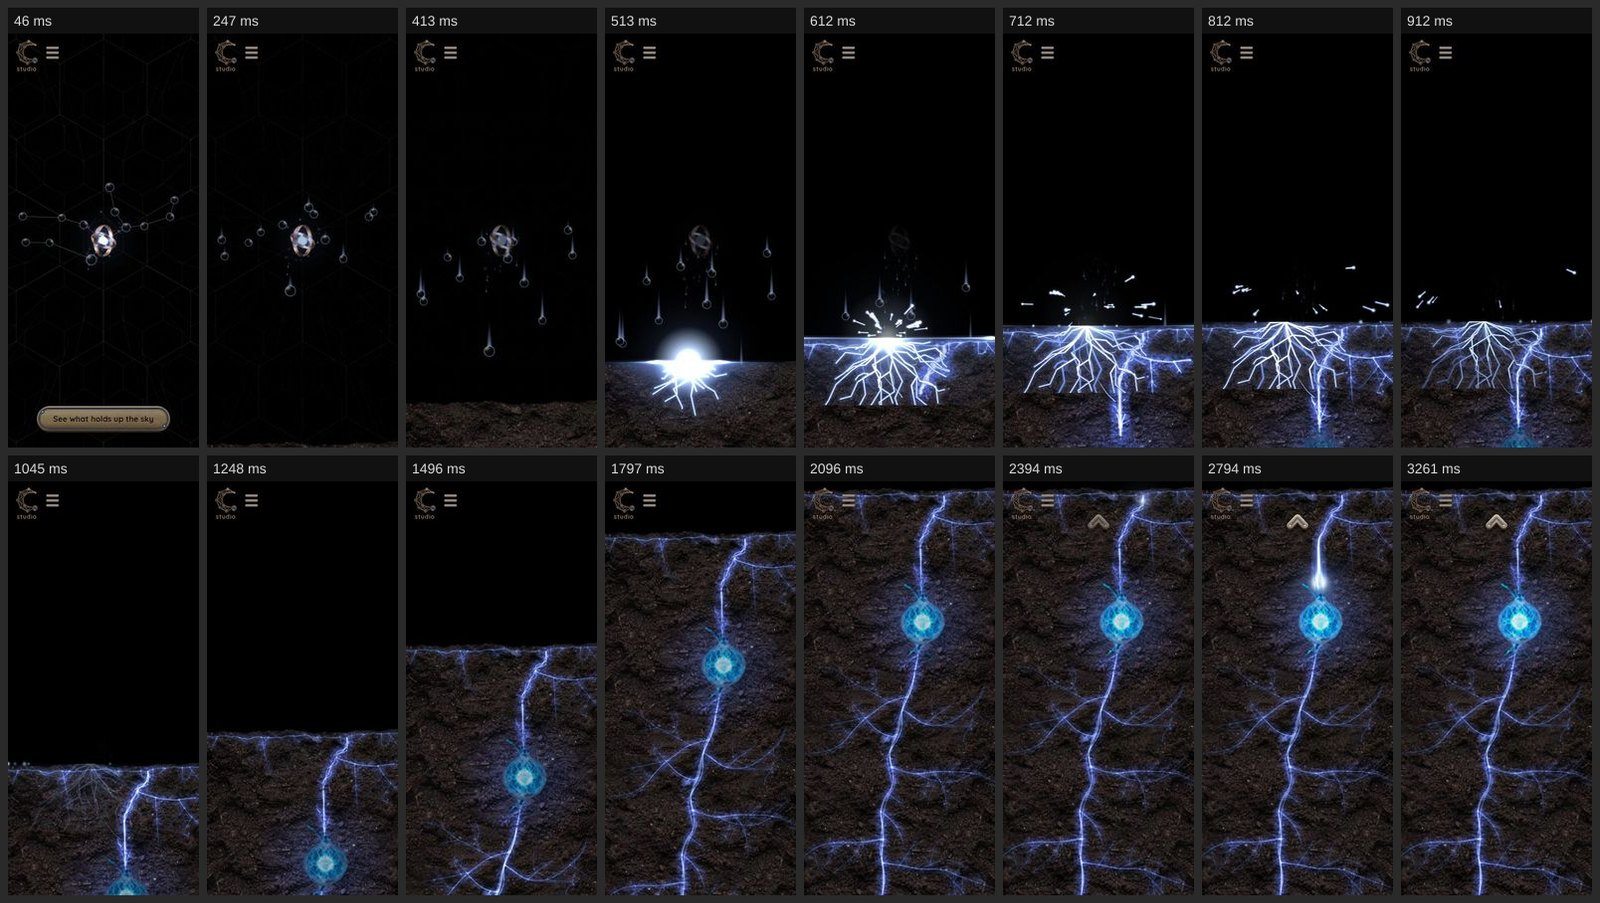
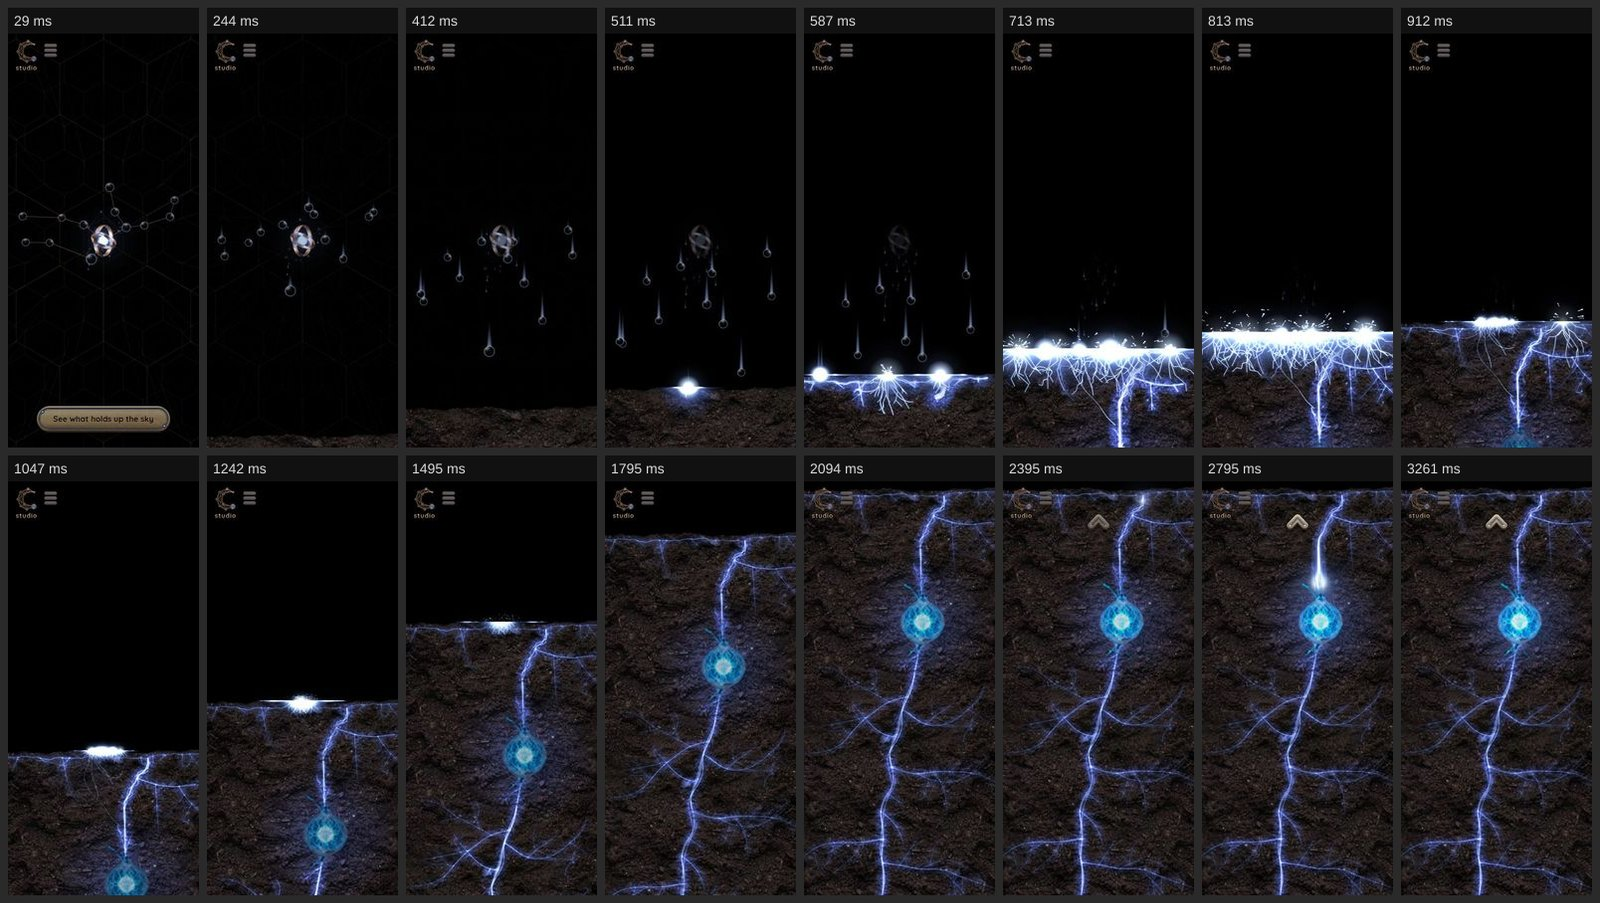
The fall: every star strikes the ground with its own burst
What was wrong: when the stars fell only the first one burst; the others
passed behind the soil's edge with nothing. The owner asked for all of them.

What now holds: the sky tells the director of every star as it crosses the
ground line (one optional callback more in the fall's options, onLand), and
each gets a burst where it lands: the same picture for all, smaller than the
one great burst there was, smaller again for the figures farther away, at
most eighteen at once. The first still sets off the growth, once. The ground
rises and the view goes down in one motion, so there is no half second of
black. Looked at as strips at both sizes; 34 checks of the fall pass.

Also: the transitions checks no longer wait for Cloudflare's script on
/contact (they died on it once).

Claude-Session: https://claude.ai/code/session_012W2mjAvaNe8UQ2tuJLbV2x

diff --git a/src/experience/director.ts b/src/experience/director.ts
@@ -41,7 +41,6 @@ import {
 } from './contracts.ts';
 import {
 	easeIn,
-	easeInOut,
 	easeOut,
 	fadeThrough,
 	lerp,
@@ -75,10 +74,14 @@ const SKY_WAIT_MS = 6000;
 const LOADER_WAIT_MS = 10_000;
 /** D1: the soil rises this far into the frame, as a share of the screen, to meet the stars. */
 const FALL_MEET = 0.32;
-/** D1: how long that rise takes. The first star strikes about half way through it. */
+/** D1: how long that rise takes. The first star strikes about half way through it, the last as it ends. */
 const FALL_RISE_MS = 900;
 /** D2: then the view follows the growth down to the top of the ground. */
 const FALL_FOLLOW_MS = 1200;
+/** D2: the ground line is held this far down the effects canvas (a share of the screen) while bursts play. */
+const FALL_BURST_LINE = 0.45;
+/** D2: how long a burst lasts, with a frame to spare (the effects layer's own figure is 760 ms). */
+const FALL_BURST_MS = 800;
 /** After the fall the growth is given this long to pass the first node before focus moves. */
 const GROWTH_WAIT_MS = 1500;
 /** G2: the whole launch back to the sky. */
@@ -100,8 +103,20 @@ const VEIL_Z_OVER_ALL = '55';
 
 const SCENES: readonly string[] = ['loading', 'sky', 'fall', 'roots', 'warp'];
 
-/** Slow, fast, slow, and quicker off the mark than motion.ts's: the view must not seem to stop. */
-const glide = (k: number): number => (k < 0.5 ? 2 * k * k : 1 - 2 * (1 - k) * (1 - k));
+/** A curve from 0 to 1 that leaves at slope `a` and arrives at slope `b` (a cubic Hermite). */
+const hermite =
+	(a: number, b: number) =>
+	(k: number): number =>
+		3 * k * k - 2 * k * k * k + a * (k * k * k - 2 * k * k + k) + b * (k * k * k - k * k);
+/** D2: the follow leaves at this slope, so the ground is already moving when it begins. */
+const FOLLOW_SLOPE = 0.5;
+/** D1: the rise starts from rest and arrives at the speed the follow leaves at. */
+const riseOn = hermite(
+	0,
+	(FOLLOW_SLOPE * (1 - FALL_MEET) * FALL_RISE_MS) / (FALL_FOLLOW_MS * FALL_MEET),
+);
+/** D2: the follow carries that speed on and comes to rest on the top of the ground. */
+const followOn = hermite(FOLLOW_SLOPE, 0);
 
 const wait = (ms: number): Promise<void> => new Promise((resolve) => setTimeout(resolve, ms));
 
@@ -391,14 +406,36 @@ export function createDirector(): StageDirector {
 			return window.innerHeight;
 		};
 		const burst = document.getElementById('fx-canvas');
-		/** scrollTop when the star struck, or -1. */
-		let struck = -1;
+		/** The first star has struck: the growth is set off once. */
+		let struck = false;
 		let grown: Promise<void> | undefined;
+		// The effects canvas is fixed and the ground is moving, so from the first
+		// strike the canvas is carried with the ground: the ground line is held
+		// at one height of the canvas (`line`), with room over it for the sparks
+		// and room under it for the light driven into the soil, wherever the
+		// ground is on the screen by then. Every burst is drawn at that height.
+		let line = -1;
+		let lastStrike = 0;
+		const carry = (): void => {
+			if (burst && line >= 0) burst.style.transform = `translateY(${surface() - line}px)`;
+		};
+		/** A star meets the ground: its burst, where it lands. All alike. */
+		const strike = (x: number, size: number): void => {
+			if (line < 0) line = Math.min(surface(), window.innerHeight * FALL_BURST_LINE);
+			carry();
+			lastStrike = performance.now();
+			tell('fx', (fx) => fx.impact(x, line, size));
+		};
+		let landed = 0;
+		const onLand = (x: number, size: number): void => {
+			if (scene !== 'fall') return;
+			landed++;
+			strike(x, size);
+		};
 		const onImpact = (x: number): void => {
-			if (scene !== 'fall' || struck >= 0) return;
-			struck = window.scrollY;
-			const y = surface();
-			tell('fx', (fx) => fx.impact(x, y));
+			if (scene !== 'fall' || struck) return;
+			struck = true;
+			if (landed === 0) strike(x, 1); // a sky that does not say where each star lands
 			tell('roots', (ground) => {
 				grown = ground.growFrom(x);
 			});
@@ -406,23 +443,32 @@ export function createDirector(): StageDirector {
 		const scrollTo = (share: number): void => {
 			if (scene !== 'fall') return; // the sky was lost meanwhile: the page is the Roots already
 			jump(spacer.offsetHeight * share);
-			if (burst && struck >= 0) burst.style.transform = `translateY(${struck - window.scrollY}px)`;
+			carry();
 		};
 
 		try {
 			// Not awaited: it is over when the last star is behind the soil, and
 			// restore() ends it in any case.
-			Promise.resolve(sky.fall({ groundY: surface, onImpact })).catch((err) =>
+			Promise.resolve(sky.fall({ groundY: surface, onImpact, onLand })).catch((err) =>
 				console.error('[cellestial] the sky threw', err),
 			);
 		} catch (err) {
 			console.error('[cellestial] the sky threw', err);
 		}
 		try {
-			await tween(FALL_RISE_MS, (k) => scrollTo(FALL_MEET * k), easeInOut);
-			await tween(FALL_FOLLOW_MS, (k) => scrollTo(lerp(FALL_MEET, 1, k)), glide);
+			// One motion, not two: the ground is still rising when the last stars
+			// land on it and goes straight on up the screen, never standing still
+			// (the two curves meet at the same speed).
+			await tween(FALL_RISE_MS, (k) => scrollTo(FALL_MEET * k), riseOn);
+			await tween(FALL_FOLLOW_MS, (k) => scrollTo(lerp(FALL_MEET, 1, k)), followOn);
 		} finally {
-			if (burst) burst.style.transform = '';
+			// The last bursts are still dying on the ground they struck: the canvas
+			// stays with it (the visitor can scroll by now) until they are over.
+			const stop = onFrame(() => {
+				if (line >= 0 && performance.now() - lastStrike < FALL_BURST_MS) return carry();
+				stop();
+				if (burst) burst.style.transform = '';
+			});
 		}
 		if (scene !== 'fall') return;
 

diff --git a/src/experience/sky/index.ts b/src/experience/sky/index.ts
@@ -291,7 +291,10 @@ export const mount: MountSky = (ctx) => {
 		gravity: number;
 		groundY: () => number;
 		onImpact: (x: number) => void;
+		onLand: ((x: number, size: number) => void) | undefined;
 		impacted: boolean;
+		/** The stars that have crossed the ground line: layer * 1000 + index in its figure. */
+		landed: Set<number>;
 		/** When the last of it began to fade, or -1. */
 		ending: number;
 		resolve: () => void;
@@ -775,8 +778,9 @@ export const mount: MountSky = (ctx) => {
 			if (!plan || !fit) continue;
 			const scale = layout.focal / depth;
 			const seen = nearFade(depth) * farFade(depth);
-			for (const star of plan.stars) {
-				if (!star.slot) continue;
+			for (let i = 0; i < plan.stars.length; i++) {
+				const star = plan.stars[i];
+				if (!star?.slot) continue;
 				const trueR = fit.starR * star.scale * scale;
 				if (seen * Math.min(1, trueR / LOOK.starMinPx) < FAINT) continue;
 				const r = Math.max(trueR, LOOK.starMinPx);
@@ -785,9 +789,23 @@ export const mount: MountSky = (ctx) => {
 				const t = Math.max(0, elapsed - star.seed * FALL.stagger);
 				const y = layout.h / 2 - (star.y - 0.5 * f.gravity * t * t - cam.y) * scale;
 				const trail = Math.min(f.gravity * t * FALL.trail * quality.trail * scale, 16 * r);
-				if (y + r >= ground && y + r - ground > hitOver) {
-					hitOver = y + r - ground;
-					hitX = x;
+				if (y + r >= ground) {
+					if (y + r - ground > hitOver) {
+						hitOver = y + r - ground;
+						hitX = x;
+					}
+					// Every star strikes the ground, once, where it meets it.
+					const id = k * 1000 + i;
+					if (!f.landed.has(id)) {
+						f.landed.add(id);
+						if (f.onLand && x >= 0 && x <= layout.w) {
+							try {
+								f.onLand(x, clamp(depthOf(near) / depth));
+							} catch (err) {
+								console.error('[sky] onLand failed', err);
+							}
+						}
+					}
 				}
 				if (y - r * REACH - trail < floor) left++;
 			}
@@ -1398,7 +1416,7 @@ export const mount: MountSky = (ctx) => {
 			return { x: tmp.x, y: tmp.y, r: B3.ring * B3.core * tmp.scale };
 		},
 
-		fall({ groundY, onImpact }) {
+		fall({ groundY, onImpact, onLand }) {
 			if (fall) finishFall();
 			introT = 1;
 			emitter.emit('dismiss', { reason: 'fall' });
@@ -1422,7 +1440,17 @@ export const mount: MountSky = (ctx) => {
 			const depth = Math.max(1.6, depthOf(nearLayer()));
 			const gravity = (FALL.gravity * depth) / layout.focal;
 			return new Promise<void>((resolve) => {
-				fall = { t0: time, gravity, groundY, onImpact, impacted: false, ending: -1, resolve };
+				fall = {
+					t0: time,
+					gravity,
+					groundY,
+					onImpact,
+					onLand,
+					impacted: false,
+					landed: new Set(),
+					ending: -1,
+					resolve,
+				};
 				wake();
 			});
 		},

diff --git a/src/experience/fx/layer.ts b/src/experience/fx/layer.ts
@@ -20,7 +20,7 @@ import {
 	type Flash,
 	type FlashDir,
 } from './flash.ts';
-import { createImpact, IMPACT_MS, type Impact } from './impact.ts';
+import { createImpact, IMPACT_MS, IMPACT_SIZE, type Impact } from './impact.ts';
 import { nextSeed } from './rng.ts';
 import { createSurface } from './surface.ts';
 import { createWarp, drawWarpFade, type Warp } from './warp.ts';
@@ -58,6 +58,12 @@ const HOLD_MAX_MS = 1000;
 const BEAT_MS = 120;
 /** The frame after swap() pays for the new section. Past this, its lateness is swap time. */
 const SWAP_FRAME_MS = 34;
+/** The burst of the farthest star is this share of the nearest's. */
+const IMPACT_FAR = 0.3;
+/** On a phone a burst is this share of a desktop's, so a dozen side by side stay a dozen. */
+const IMPACT_NARROW = 0.72;
+/** How many bursts (D2) play at once. */
+const IMPACTS_MAX = 18;
 /** Reduced motion: the fade is solid black from here to the same distance past the peak. */
 const FADE_SOLID_FROM = 0.47;
 
@@ -377,14 +383,27 @@ export function createFx(ctx: SceneContext, opts: FxOptions = {}): FxLayer {
 			});
 		},
 
-		impact(x, y) {
+		impact(x, y, size = 1) {
 			// Reduced motion has no fall, so nothing lands.
 			if (ctx.reducedMotion || broken) return;
 			if (!Number.isFinite(x) || !Number.isFinite(y)) return;
 			wake();
+			// A whole sky can land within half a second. Past this many at once the
+			// oldest, which is all but spent, makes way: frame time is kept.
+			if (impacts.length >= IMPACTS_MAX) impacts.shift();
 			try {
 				impacts.push({
-					art: createImpact(takeSeed(), x, y, surface.w, surface.h),
+					art: createImpact(
+						takeSeed(),
+						x,
+						y,
+						surface.w,
+						surface.h,
+						// A narrow screen has the same stars landing closer together.
+						IMPACT_SIZE *
+							Math.min(1, Math.max(IMPACT_NARROW, surface.w / 900)) *
+							Math.min(1, Math.max(IMPACT_FAR, Number.isFinite(size) ? size : 1)),
+					),
 					t0: clock.now(),
 					u: 0,
 				});

diff --git a/src/experience/fx/impact.ts b/src/experience/fx/impact.ts
@@ -75,15 +75,31 @@ function addRay(g: Ctx, x: number, y: number, r: Ray, to: number): void {
 	);
 }
 
-export function createImpact(seed: number, x: number, y: number, w: number, h: number): Impact {
+/**
+ * Every star that falls strikes the ground, so a sky's worth of these play at
+ * once: each is this share of the one great burst the effect was first drawn
+ * as, with fewer rays and sparks to match. All of them are alike.
+ */
+export const IMPACT_SIZE = 0.56;
+
+export function createImpact(
+	seed: number,
+	x: number,
+	y: number,
+	w: number,
+	h: number,
+	size = IMPACT_SIZE,
+): Impact {
 	const rand = rng(seed);
 	/** A phone's burst is nearly as big as a desktop's: it is felt, not measured. */
-	const s = clamp(Math.sqrt(w * h) / 700, 0.9, 1.6);
+	const s = clamp(Math.sqrt(w * h) / 700, 0.9, 1.6) * size;
 	const gravity = 2500 * s;
+	/** How many rays and sparks, against the great burst's. */
+	const few = clamp(0.25 + 0.75 * size, 0.5, 1);
 
 	// Rays into the ground: every way below the horizon, longest straight down.
 	const rays: Ray[] = [];
-	const count = 11 + Math.floor(rand() * 4);
+	const count = Math.round((11 + Math.floor(rand() * 4)) * few);
 	for (let k = 0; k < count; k++) {
 		const a = 0.12 + ((k + 0.15 + rand() * 0.7) / count) * (Math.PI - 0.24);
 		const len = s * (80 + 150 * Math.sin(a) ** 1.3 * (0.5 + rand() * 0.6) + rand() * 45);
@@ -106,7 +122,7 @@ export function createImpact(seed: number, x: number, y: number, w: number, h: n
 
 	// Sparks: thrown up and outward, pulled back down to the ground line.
 	const sparks: Spark[] = [];
-	const thrown = 18 + Math.floor(rand() * 8);
+	const thrown = Math.round((18 + Math.floor(rand() * 8)) * few);
 	for (let k = 0; k < thrown; k++) {
 		const side = k % 2 === 0 ? 1 : -1;
 		const lean = (0.1 + rand() ** 0.8 * 1.15) * side;

diff --git a/src/experience/contracts.ts b/src/experience/contracts.ts
@@ -106,9 +106,17 @@ export interface SkyScene {
 	/**
 	 * D1. Every star accelerates straight down with a trail, all alike; the
 	 * lattice and B3 fade. `onImpact` fires once, when the first star crosses
-	 * `groundY()`. Resolves when the sky is empty.
+	 * `groundY()`. `onLand`, if given, fires for every star, the first included,
+	 * in the frame it crosses `groundY()`: each one strikes the ground. `x` is
+	 * where it crosses; `size` is how large the star is on screen against a
+	 * star of the figure in front (1 for those, less for the figures behind,
+	 * which are farther away). Resolves when the sky is empty.
 	 */
-	fall(opts: { groundY: () => number; onImpact: (x: number) => void }): Promise<void>;
+	fall(opts: {
+		groundY: () => number;
+		onImpact: (x: number) => void;
+		onLand?: (x: number, size: number) => void;
+	}): Promise<void>;
 	/** Put every star back (after a warp return or a teleport to the sky). */
 	restore(): void;
 
@@ -139,8 +147,12 @@ export interface FxLayer {
 	 * With reduced motion this is a plain fade.
 	 */
 	teleportFlash(swap: () => void | Promise<void>, dir: 'up' | 'down' | 'none'): Promise<void>;
-	/** D2. The burst where a star meets the soil. */
-	impact(x: number, y: number): void;
+	/**
+	 * D2. The burst where a star meets the soil. Every star that lands has one,
+	 * all of the same kind; `size` (0 to 1, 1 when left out) makes it smaller
+	 * for a star that is farther away.
+	 */
+	impact(x: number, y: number, size?: number): void;
 	/** G2. Streaks and a speed ramp, launching upward. */
 	warp(ms: number): Promise<void>;
 }
